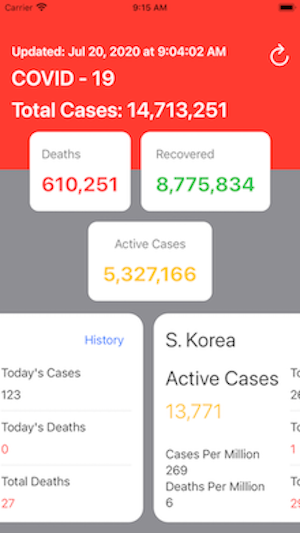
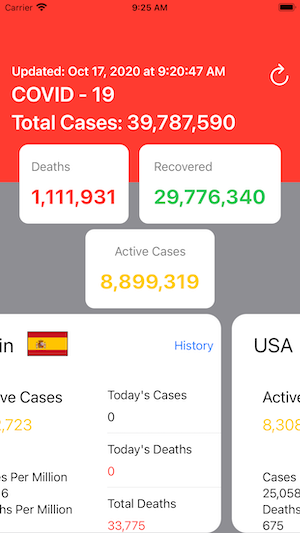
update to iOS 14. add flags and clean up UI

diff --git a/COVID/CellView.swift b/COVID/CellView.swift
@@ -16,11 +16,25 @@ struct cellView : View {
     var body : some View {
 
         VStack(alignment: .leading, spacing: 15) {
-
             HStack {
                 Text(details.country)
                     .foregroundColor(.black)
                     .font(.title)
+                // to avoid making a whole bunch of extra network calls to get the flags I downloaded
+                // and saved them in the bundle. if you add more countries un-comment these lines to
+                // easily get the link for the flag. then just download and add to Assets
+//                Text(details.countryInfo.flag)
+//                    .foregroundColor(.black)
+                Image(details.countryInfo.iso2.lowercased())
+                    .resizable()
+                    .frame(width: 56)
+                    // flags are 250 wide and vary in height this ratio is about average
+                    .aspectRatio(1.65, contentMode: .fit)
+                    .border(Color.black, width: 1)
+                    .background(Color.gray)
+                    .padding(.leading, 10)
+                    .padding(.top, 24)
+
                 Spacer()
                 Button("History") {
                     self.show = true
@@ -30,44 +44,52 @@ struct cellView : View {
                        onDismiss: { },
                        content: { HistoryView(countryCode: details.countryCode) })
             }
+            .padding(.leading, 30)
 
-            HStack(spacing: 15) {
+            HStack(alignment: .top) {
+                VStack(alignment: .leading, spacing: 15) {
 
-                VStack(alignment: .leading, spacing: 12) {
+                    HStack(spacing: 15) {
 
-                    Text("Active Cases")
-                        .foregroundColor(.black)
-                        .font(.title)
+                        VStack(alignment: .leading, spacing: 12) {
 
-                    Text(self.details.casesString)
-                        .foregroundColor(.yellow)
-                        .font(.title)
+                            Text("Active Cases")
+                                .foregroundColor(.black)
+                                .font(.title2)
 
-                    Spacer()
+                            Text(self.details.casesString)
+                                .foregroundColor(.yellow)
+                                .font(.title2)
 
-                    VStack(alignment: .leading, spacing: 2) {
+                            Spacer()
 
-                       Text("Cases Per Million")
-                           .foregroundColor(.black)
+                            VStack(alignment: .leading, spacing: 2) {
 
-                        Text(self.details.casesPerMillionString)
-                           .foregroundColor(.black)
+                                Text("Cases Per Million")
+                                    .foregroundColor(.black)
 
-                        Text("Deaths Per Million")
-                            .foregroundColor(.black)
+                                Text(self.details.casesPerMillionString)
+                                    .foregroundColor(.black)
 
-                        Text(self.details.deathsPerMillionString)
-                            .foregroundColor(.black)
+                                Text("Deaths Per Million")
+                                    .foregroundColor(.black)
+
+                                Text(self.details.deathsPerMillionString)
+                                    .foregroundColor(.black)
+                            }
+
+                        }
+                        .padding(.leading, 12)
                     }
-
                 }
+                .padding(.leading, 30)
 
                 VStack(alignment: .leading, spacing: 12) {
 
                     VStack(alignment: .leading, spacing: 10) {
 
                         Text("Today's Cases")
-                        .foregroundColor(.black)
+                            .foregroundColor(.black)
 
                         Text(self.details.todaysCasesString)
                             .foregroundColor(.black)
@@ -78,7 +100,7 @@ struct cellView : View {
                     VStack(alignment: .leading, spacing: 10) {
 
                         Text("Today's Deaths")
-                        .foregroundColor(.black)
+                            .foregroundColor(.black)
 
                         Text(self.details.todayDeathsString)
                             .foregroundColor(.red)
@@ -89,15 +111,15 @@ struct cellView : View {
                     VStack(alignment: .leading, spacing: 10) {
 
                         Text("Total Deaths")
-                        .foregroundColor(.black)
+                            .foregroundColor(.black)
 
                         Text(self.details.deathsString)
                             .foregroundColor(.red)
                     }
-
                 }
+                .padding(.leading, 40)
             }
-        }.padding()
+       }
         .frame(width: UIScreen.main.bounds.width - 30)
         .background(Color.white)
         .cornerRadius(20)

diff --git a/COVID/ContentView.swift b/COVID/ContentView.swift
@@ -26,6 +26,7 @@ struct ContentView_Previews: PreviewProvider {
 
 struct Home: View {
     @ObservedObject var data = ViewModel()
+    @Environment(\.scenePhase) var scenePhase
     
     var body : some View {
         VStack {
@@ -35,7 +36,7 @@ struct Home: View {
                     
                     HStack(alignment: .top) {
                         
-                        VStack(alignment: .leading, spacing: 10) {
+                        VStack(alignment: .leading, spacing: 5) {
                             
                             Text("Updated: " + self.data.data.lastUpdated)
                                 .fontWeight(.semibold)
@@ -114,18 +115,16 @@ struct Home: View {
                         .padding(.vertical, 20)
                         .background(Color.white)
                         .cornerRadius(12)
-                        .padding(.top, 15)
-                    
+
+                    // Country views
                     ScrollView(.horizontal, showsIndicators: false) {
-                        
                         HStack(spacing: 15) {
-                            
                             ForEach(self.data.countries, id: \.self) { i in
                                 cellView(details: i)
                             }
                         }
                     }
-                    .padding(.bottom, 100)
+                    .padding(.bottom, 60)
                 }
                 .background(Color.gray)
             }
@@ -136,13 +135,15 @@ struct Home: View {
                     }
                 }
             }
-        }.edgesIgnoringSafeArea(.top)
-            .background(Color.black.opacity(0.1).edgesIgnoringSafeArea(.all))
-            .onAppear {
+        }.ignoresSafeArea()
+        .background(Color.black.opacity(0.1).edgesIgnoringSafeArea(.all))
+        .onAppear {
+            self.data.updateData()
+        }
+        .onChange(of: scenePhase) { phase in
+            if phase == .active {
                 self.data.updateData()
             }
-            .onReceive(NotificationCenter.default.publisher(for: UIApplication.willEnterForegroundNotification)) { _ in
-                self.data.updateData()
         }
     }
 }

diff --git a/COVID/ViewModel.swift b/COVID/ViewModel.swift
@@ -37,8 +37,15 @@ struct Case : Decodable {
     }
 }
 
+struct CountryInfo : Decodable, Hashable {
+    var iso2: String
+    var iso3: String
+    var flag: String
+}
+
 struct Details : Decodable, Hashable {
     var country: String
+    var countryInfo: CountryInfo
     var cases: Int?
     var todayCases: Int?
     var deaths: Int?
@@ -168,7 +175,7 @@ fileprivate func getIntString(data: Int?) -> String {
     return format.string(for: data)!
 }
 
-fileprivate let countryCodes = [ "usa": "USA", "kr": "S. Korea", "singapore": "Singapore", "taiwan": "Taiwan", "china": "China", "brazil": "Brazil", "spain": "Spain", "sweden": "Sweden"]
+fileprivate let countryCodes = [ "usa": "USA", "kr": "S. Korea", "singapore": "Singapore", "taiwan": "Taiwan", "china": "China", "brazil": "Brazil", "spain": "Spain", "mx": "Mexico"]
 
 fileprivate let codes = countryCodes.keys
 fileprivate let countryCodeList = codes.joined(separator: ",")

diff --git a/COVID/HistoryView.swift b/COVID/HistoryView.swift
@@ -16,7 +16,7 @@ struct HistoryView: View {
     var body: some View {
         ZStack {
             Color.black
-                .edgesIgnoringSafeArea(/*@START_MENU_TOKEN@*/.all/*@END_MENU_TOKEN@*/)
+                .edgesIgnoringSafeArea(/*@START_MENU_TOKEN@*/.all/*@END_MENU_TOKEN@*/)          //TODO: deprecated in Xcode 12. update to ignoresSafeArea() when target changes to iOS 14.
             VStack {
                 Text("Total Cases").font(.headline)
                 VStack {

diff --git a/README.md b/README.md
@@ -1,6 +1,6 @@
 # COVID
 
-COVID is an iOS app written with SwiftUI. It tracks the current worldwide status of the COVID-19 pandemic. The idea and UI were mostly taken from a Kavsoft video. It also pointed me to the API and I added some additional info and a couple more countries.
+COVID is an iOS app written with SwiftUI and updated to require iOS 14. It tracks the current worldwide status of the COVID-19 pandemic. The idea and UI concept were mostly taken from a Kavsoft video. It also pointed me to the API and I added some additional info and a couple more countries.
 
 Added a history Sheet that shows graphs of the country's total cases and deaths since the virus started spreading worldwide.
 
